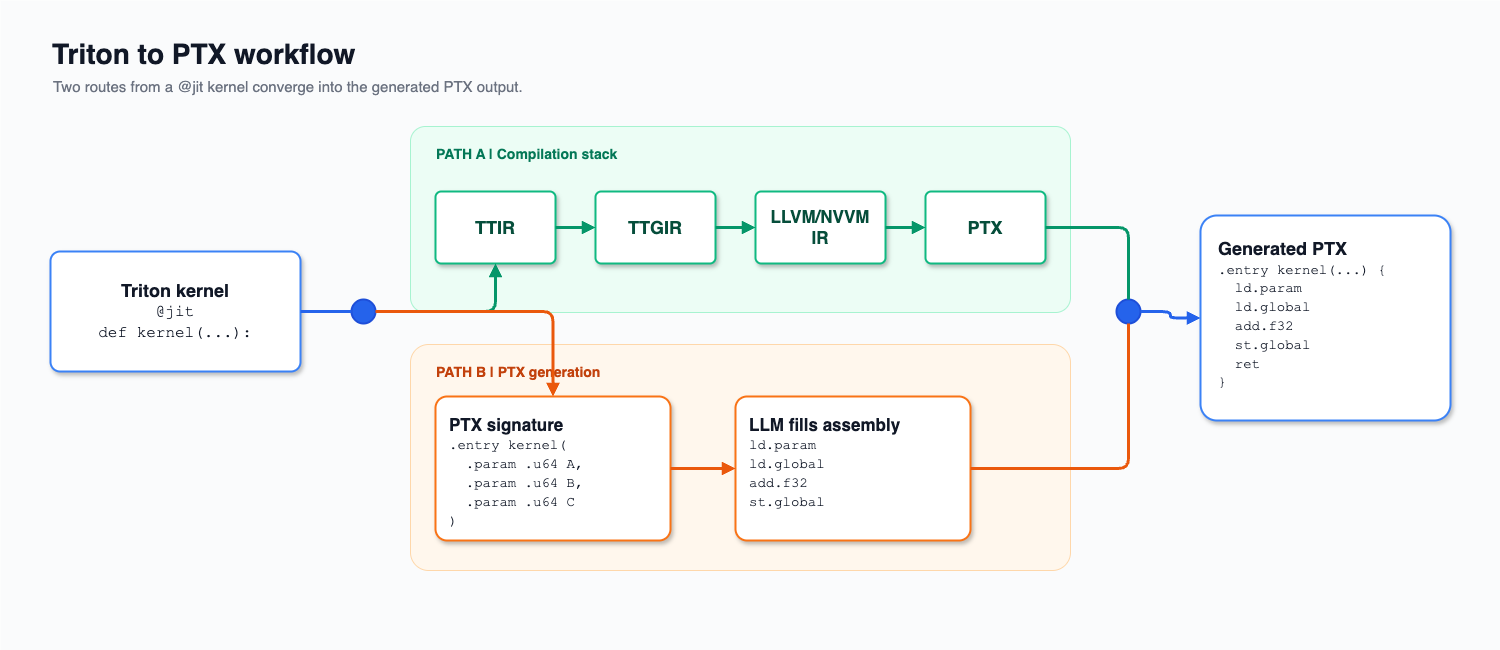
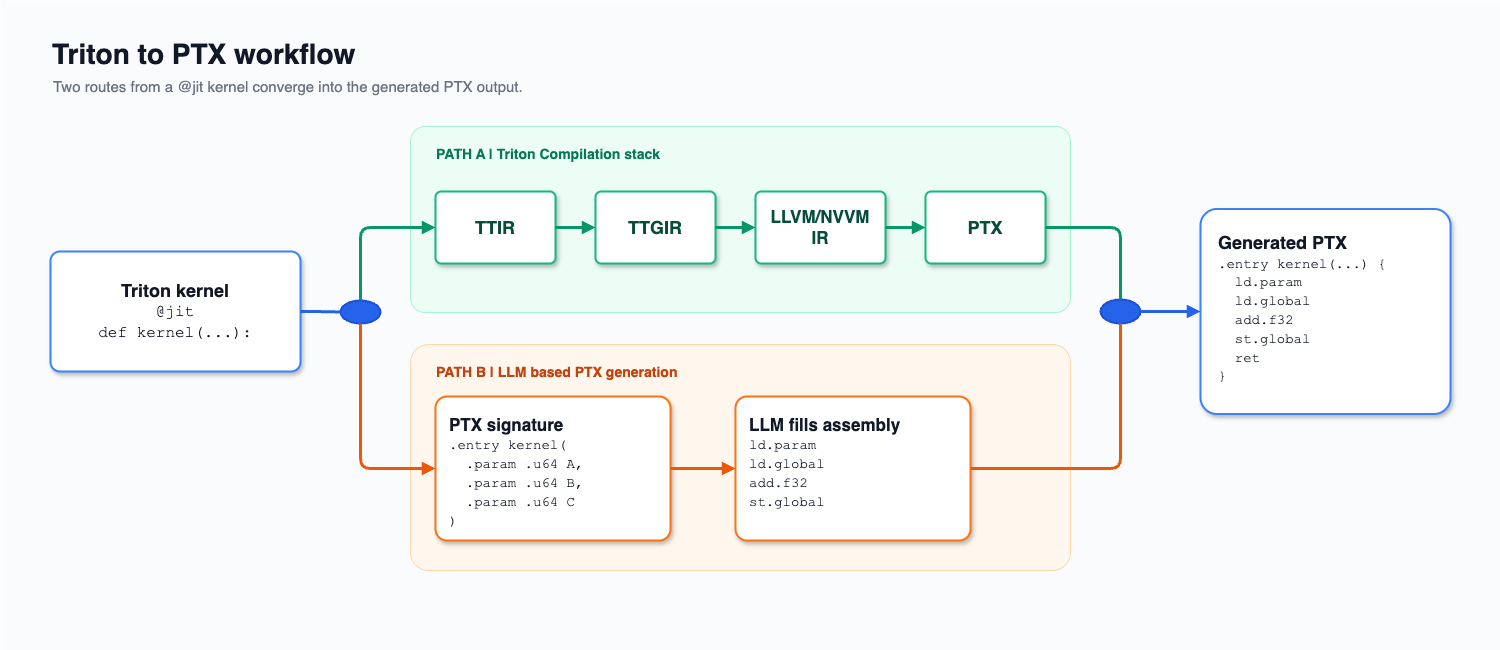
Update readme
Minor improvements on the readme

diff --git a/README.md b/README.md
@@ -32,9 +32,7 @@ CompilerBench asks a deliberately direct question:
 
 > **Given a Triton kernel, can a language model generate a correct PTX implementation that outperforms the code produced by Triton?**
 
-Instead of asking an LLM to select from a fixed library of compiler passes, CompilerBench lets the model emit low-level GPU code directly. Each candidate is assembled, executed, checked for correctness, benchmarked, and compared with a compiler-generated baseline.
-
-The environment is designed for both **evaluation** and **iterative search**. A model can propose a candidate, inspect structured feedback, and improve the implementation over multiple attempts.
+CompilerBench lets the model emit low-level GPU code directly. Each candidate is assembled, executed, checked for correctness, benchmarked, and compared with a compiler-generated baseline. The environment is designed for both **evaluation** and **iterative search**. A model can propose a candidate, inspect structured feedback, and improve the implementation over multiple attempts.
 
 <p align="center">
   <img src="./workflow.png" alt="CompilerBench evaluation workflow" width="900">
@@ -44,13 +42,7 @@ The environment is designed for both **evaluation** and **iterative search**. A 
 
 Modern GPU compilers are powerful, but their search space is bounded by transformations that compiler engineers have already designed and implemented. Every optimization must also pass conservative legality checks involving aliasing, synchronization, numerical behavior, memory dependencies, and race freedom.
 
-LLMs offer a different path. A model generating PTX directly is not limited to a predefined pass library and may explore combinations of instruction selection, memory access, synchronization, register use, and scheduling that are difficult to express in a conventional optimization pipeline.
-
-<p align="center">
-  <img src="./llm_compilation_pipeline.png" alt="Traditional and LLM-based compilation pipelines" width="900">
-</p>
-
-CompilerBench provides the infrastructure needed to test that idea rigorously.
+LLMs offer a different path. A model generating PTX directly is not limited to a predefined pass library and may explore combinations of instruction selection, memory access, synchronization, register use, and scheduling that are difficult to express in a conventional optimization pipeline. CompilerBench provides the infrastructure needed to test that idea rigorously.
 
 ## What the environment does
 
@@ -68,14 +60,6 @@ The environment is **stateless**: there is no reset operation and no persistent 
 
 ## Quick start
 
-### Requirements
-
-CompilerBench targets NVIDIA GPUs and PTX. You will need:
-
-- An NVIDIA GPU with a compatible driver and CUDA toolchain
-- A Python environment suitable for the project dependencies
-- Permission to compile and execute generated GPU code
-
 > [!CAUTION]
 > Model-generated PTX is untrusted low-level code. Run evaluations on isolated, non-production infrastructure.
 
@@ -88,6 +72,13 @@ python -m venv .venv
 source .venv/bin/activate
 python -m pip install --upgrade pip
 python -m pip install -e .
+```
+
+Then you need to expose the two environment variables:
+
+```bash
+export NCU_PATH=<ncu_path>
+export PTX_MEMORY_SANITIZER=<sanitizer_path>
 ```
 
 ### Evaluate a candidate
